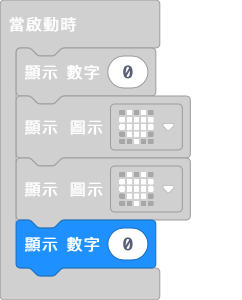
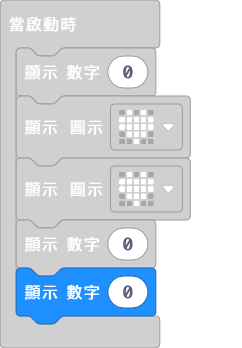
Update main.blocks, main.ts

Changed region(s): [[0.0289, 0.03, 0.8099, 0.96], [0.0579, 0.03, 0.0868, 0.06]]

diff --git a/main.ts b/main.ts
@@ -2,6 +2,7 @@ basic.showNumber(0)
 basic.showIcon(IconNames.Heart)
 basic.showIcon(IconNames.Heart)
 basic.showNumber(0)
+basic.showNumber(0)
 basic.forever(function () {
 	
 })
